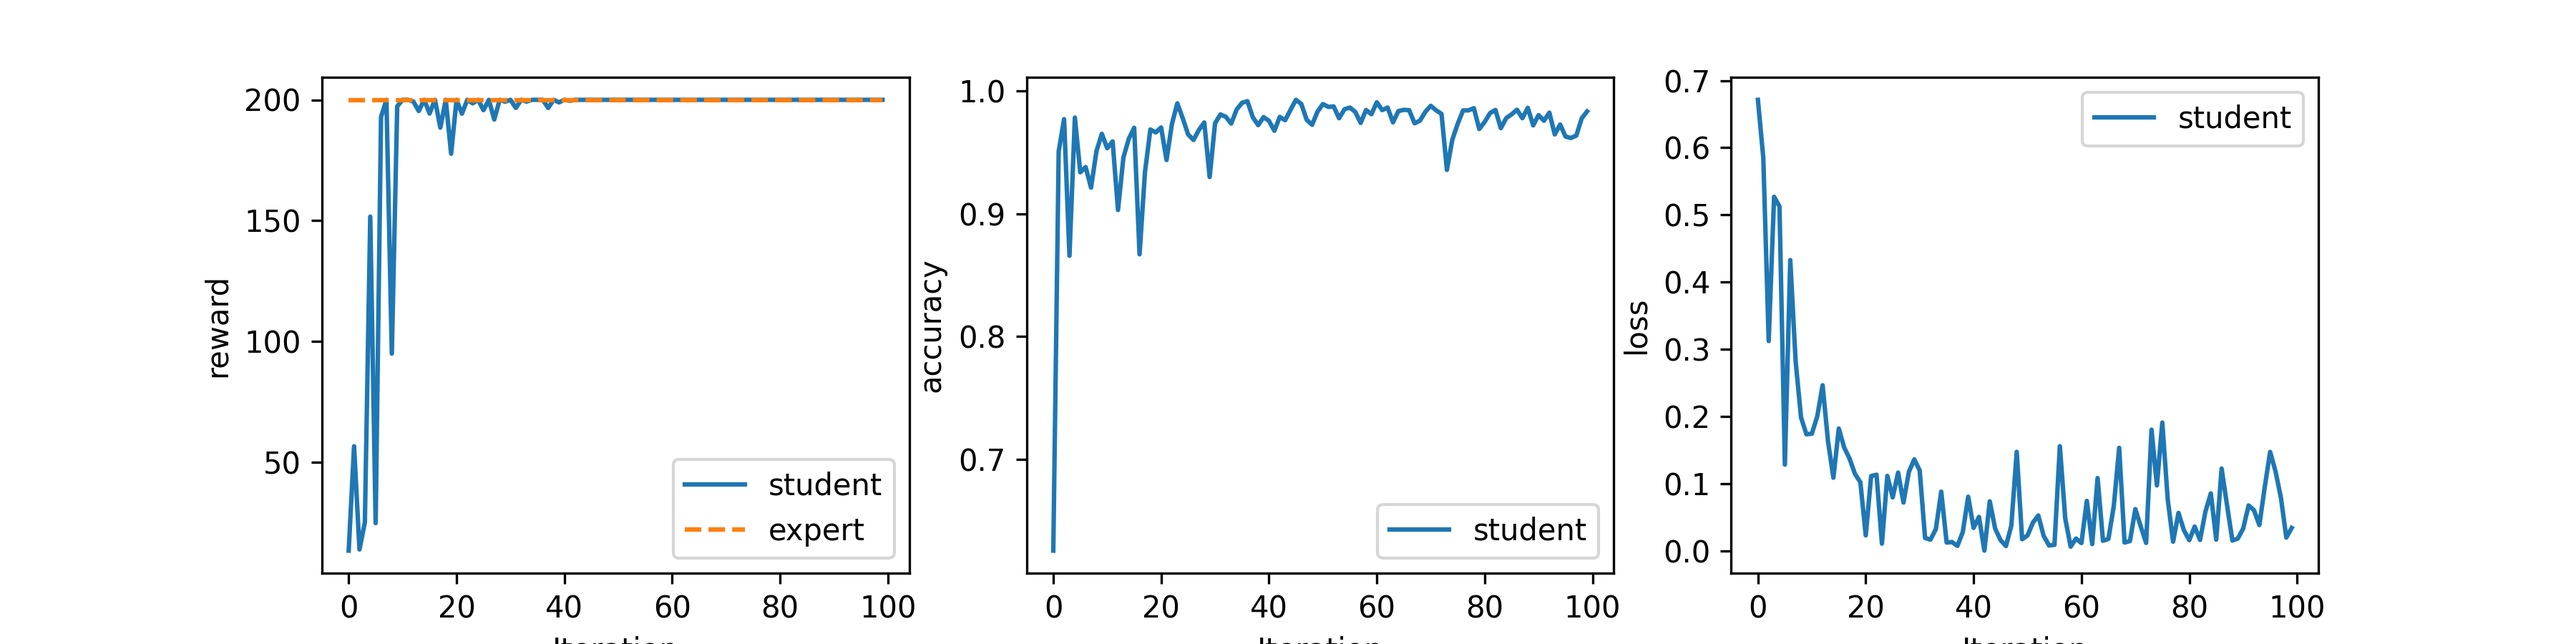
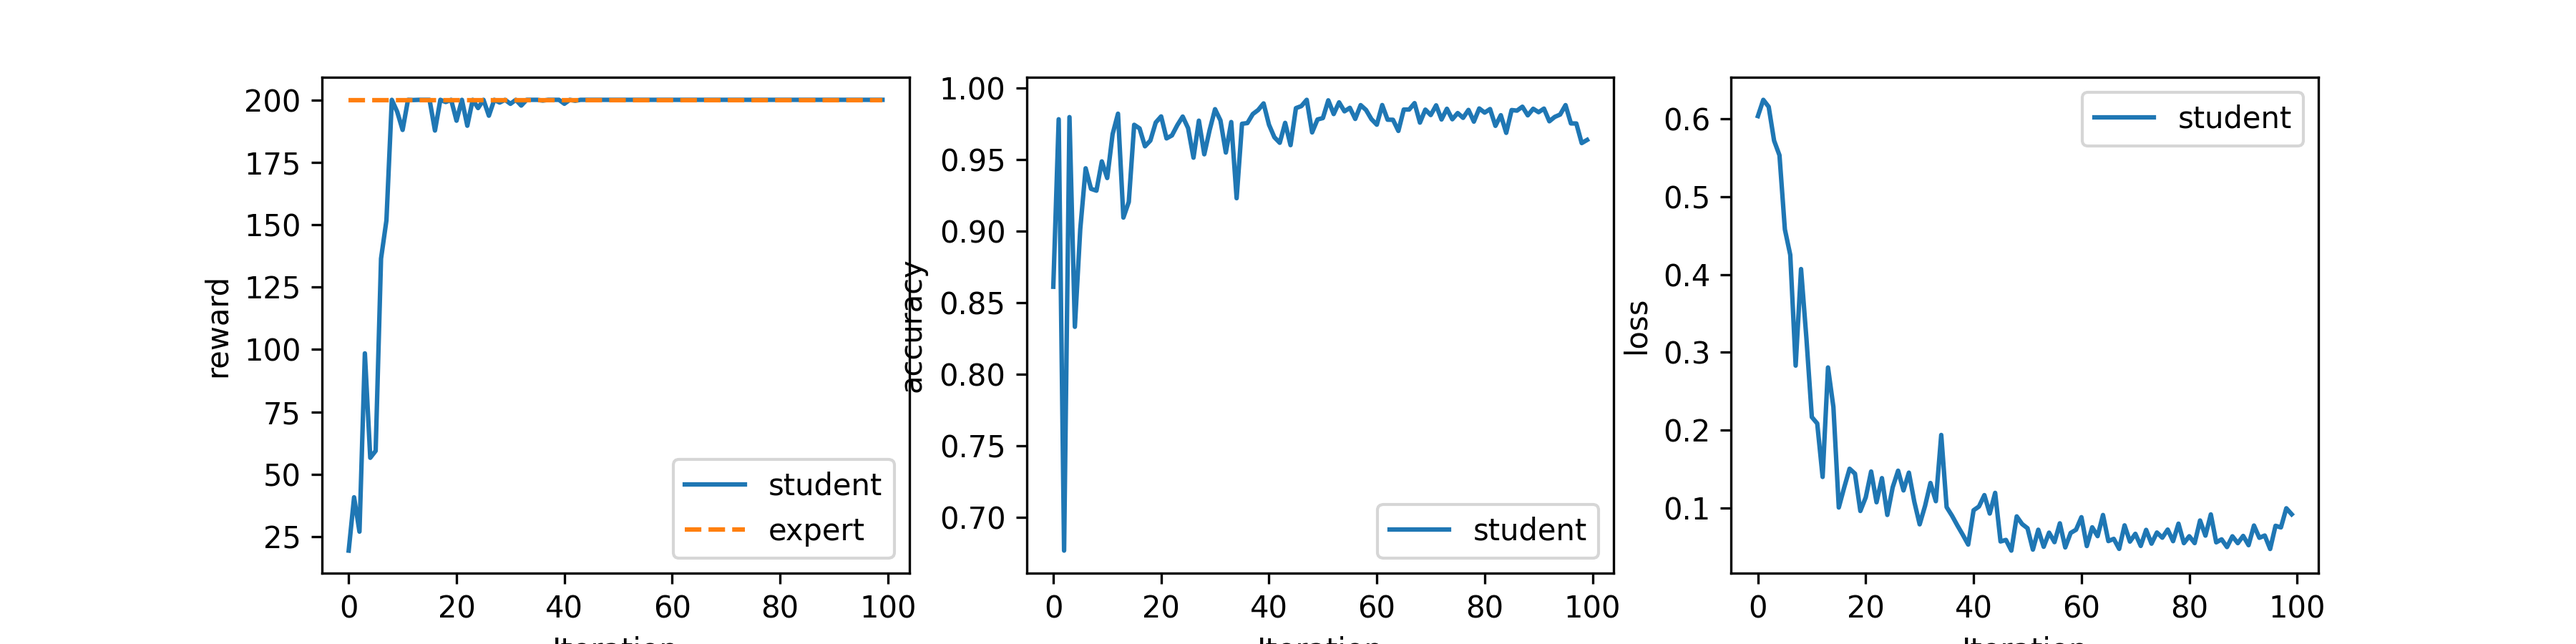
commit results

diff --git a/hw3/hw3q2/imitation.py b/hw3/hw3q2/imitation.py
@@ -127,16 +127,20 @@ class Imitation:
         )
 
         # train
+        total_loss = 0
+        cnt = 0
         for ep in range(num_epochs):
             for states, actions in dataloader:
                 # forward prop
                 logits = self.model(states)
                 loss = loss_fn(logits, actions)
+                total_loss += loss.item()
+                cnt += 1
                 # backward prop
                 optimizer.zero_grad()
                 loss.backward()
                 optimizer.step()
-        loss = loss.item()
+        loss = total_loss / cnt
 
         # evaluate on the trained dataset
         num_correct = 0

diff --git a/hw3/hw3q3/GCBC.py b/hw3/hw3q3/GCBC.py
@@ -462,7 +462,8 @@ def run_GCBC(args: Args):
             raise NotImplementedError
 
         print('training...')
-        for e in trange(150):
+        iter_num = 150 if args.sample_mode == "expert" else 50
+        for e in trange(iter_num):
             loss, acc = gcbc.train(num_epochs=20)
             succ = evaluate_gc(env, gcbc)
             loss_vec.append(loss)
